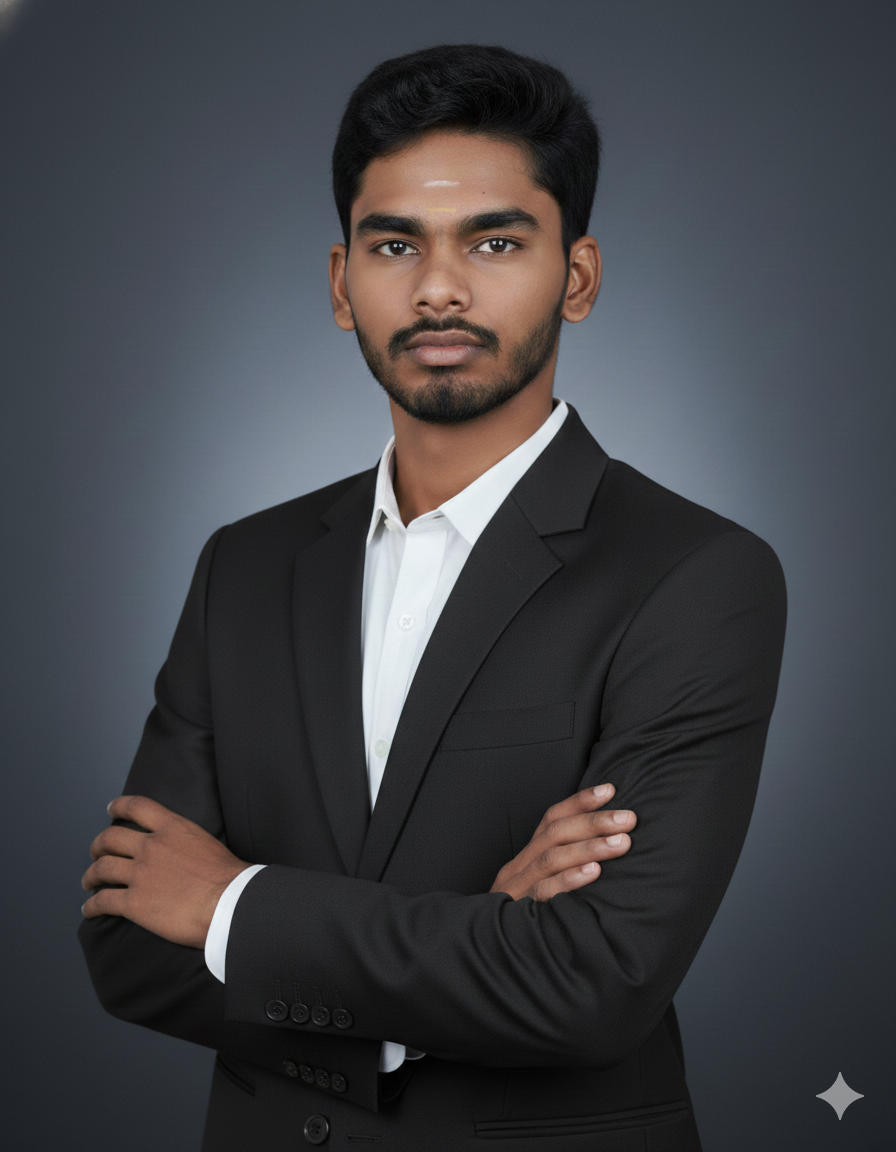
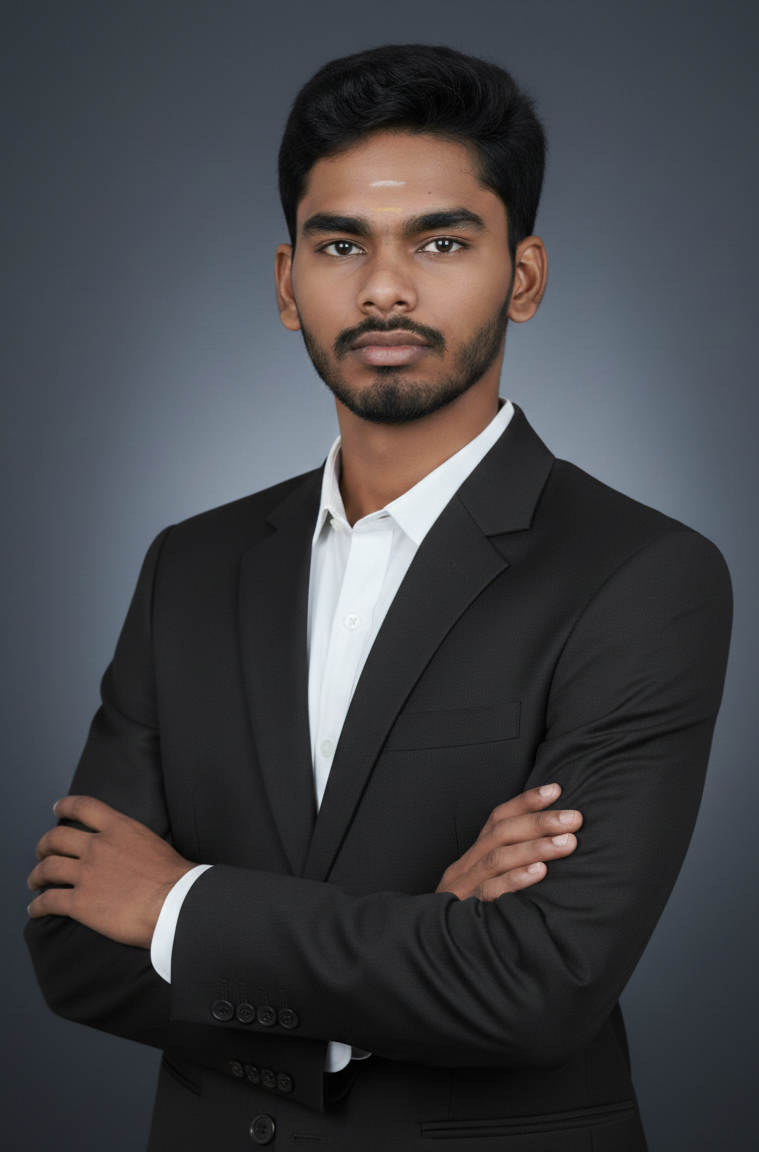
Added Pics

diff --git a/src/pages/AboutUs.jsx b/src/pages/AboutUs.jsx
@@ -281,7 +281,7 @@ export default function About() {
                         <img
                           src={member.img}
                           alt={member.name}
-                          className={`w-full h-full object-cover transition-transform duration-700 group-hover:scale-110 ${member.name === "Vasanth R" ? "object-top" : member.name === "Sasikiran TT" ? "object-left scale-125" : "object-center"}`}
+                          className={`w-full h-full object-cover transition-transform duration-700 group-hover:scale-110 ${member.name === "Vasanth R" ? "object-top" : "object-center"}`}
                         />
                       ) : (
                         <div className="w-full h-full flex items-center justify-center bg-[#0d0d0d] border border-white/5 group-hover:bg-[#121212] transition-colors duration-500">
